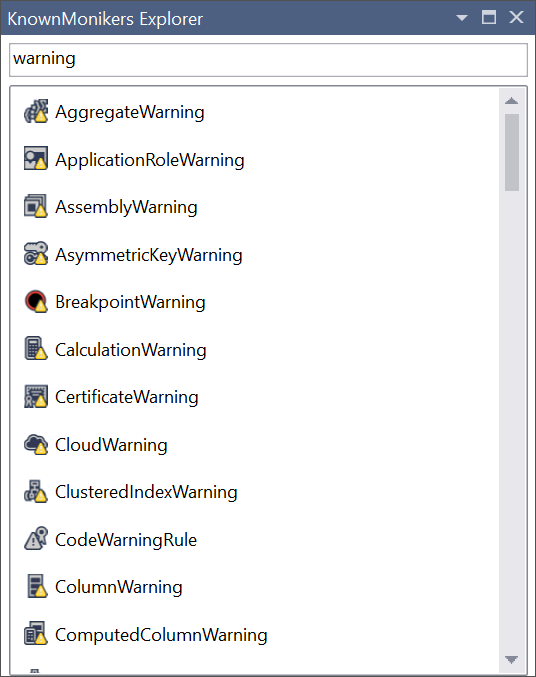
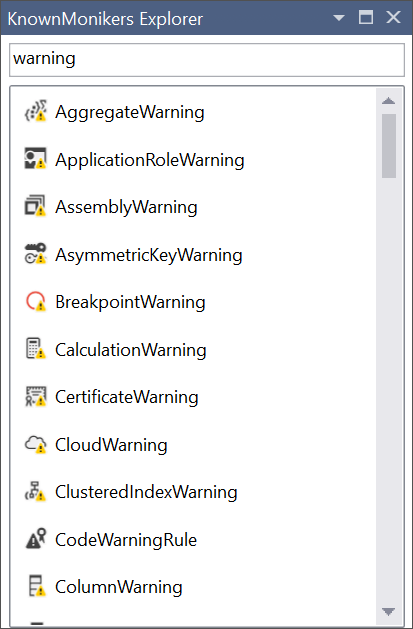
Fixed theming issue

Changed region(s): [[0.0, 0.0, 1.0, 1.0]]

diff --git a/src/ToolWindows/KnownMonikersExplorerControl.xaml b/src/ToolWindows/KnownMonikersExplorerControl.xaml
@@ -10,7 +10,7 @@
              xmlns:util="clr-namespace:Microsoft.VisualStudio.PlatformUI;assembly=Microsoft.VisualStudio.Utilities"
              xmlns:catalog="clr-namespace:Microsoft.VisualStudio.Imaging;assembly=Microsoft.VisualStudio.ImageCatalog"
              mc:Ignorable="d" 
-             d:DesignHeight="450" d:DesignWidth="400">
+             d:DesignHeight="450" d:DesignWidth="400" UseLayoutRounding="True">
     <Grid>
         <Grid.RowDefinitions>
             <RowDefinition Height="Auto" />
@@ -22,7 +22,7 @@
                  Foreground="{DynamicResource {x:Static platformUI:EnvironmentColors.BrandedUITitleBrushKey}}"
                  />
 
-        <ListView Name="list" Margin="5,0" Grid.Row="1" Background="Transparent">
+        <ListView Name="list" Margin="5,0" Grid.Row="1" Background="{DynamicResource {x:Static platformUI:EnvironmentColors.BrandedUIBackgroundBrushKey}}" theming:ImageThemingUtilities.ImageBackgroundColor="{Binding Background, RelativeSource={RelativeSource Self}, Converter={StaticResource BrushToColorConverter}}">
             <ListView.Resources>
                 <Style TargetType="GridViewColumnHeader">
                     <Setter Property="Visibility" Value="Collapsed" />

diff --git a/src/ToolWindows/ExportMonikerWindow.xaml b/src/ToolWindows/ExportMonikerWindow.xaml
@@ -30,7 +30,7 @@
                 <ColumnDefinition Width="auto" />
             </Grid.ColumnDefinitions>
             <TextBlock x:Name="textBlock" Grid.Row="0" Grid.Column="0" HorizontalAlignment="Left" FontWeight="SemiBold" Margin="0,13,15,10" Text="Width" VerticalAlignment="Top"/>
-            <TextBox x:Name="txtSize" Grid.Row="0" Grid.Column="1" HorizontalAlignment="Right" Height="23" Margin="0 10 0 0" Text="175" VerticalAlignment="Top" Width="50"/>
+            <TextBox x:Name="txtSize" Grid.Row="0" Grid.Column="1" HorizontalAlignment="Right" Height="23" Margin="0 10 0 0" Text="128" VerticalAlignment="Top" Width="50"/>
 
             <TextBlock Grid.Row="1" Grid.Column="0" HorizontalAlignment="Left" FontWeight="SemiBold" Margin="0,3,15,10" Text="Height" VerticalAlignment="Top"/>
             <TextBox Grid.Row="1" Grid.Column="1" HorizontalAlignment="Right" Height="23" Text="{Binding ElementName=txtSize, Path=Text}" VerticalAlignment="Top" Width="50" IsEnabled="False"/>

diff --git a/src/ToolWindows/KnownMonikersExplorerWindow.cs b/src/ToolWindows/KnownMonikersExplorerWindow.cs
@@ -1,6 +1,7 @@
 using System;
 using System.Runtime.InteropServices;
 using EnvDTE;
+using Microsoft.VisualStudio.Imaging;
 using Microsoft.VisualStudio.Shell;
 using Microsoft.VisualStudio.Shell.Interop;
 
@@ -9,7 +10,7 @@ namespace KnownMonikersExplorer.ToolWindows
     [Guid(WindowGuidString)]
     public class KnownMonikersExplorerWindow : ToolWindowPane
     {
-        public const string WindowGuidString = "5a3bfbbe-afe7-46da-a7fa-b6313fa03acc";
+        public const string WindowGuidString = "cfff3162-9c8d-4244-b0a7-e3b39a968b24";
         public const string Title = "KnownMonikers Explorer";
 
         public KnownMonikersExplorerWindow()
@@ -20,6 +21,7 @@ namespace KnownMonikersExplorer.ToolWindows
             : base()
         {
             Caption = Title;
+            BitmapImageMoniker = KnownMonikers.Image;
 
             var elm = new KnownMonikersExplorerControl(state);
             Content = elm;

diff --git a/src/KnownMonikersPackage.cs b/src/KnownMonikersPackage.cs
@@ -13,7 +13,7 @@ namespace KnownMonikersExplorer
     [PackageRegistration(UseManagedResourcesOnly = true, AllowsBackgroundLoading = true)]
     [InstalledProductRegistration("#110", "#112", Vsix.Version, IconResourceID = 400)]
     [Guid(PackageGuids.guidKnownMonikersPackageString)]
-    [ProvideToolWindow(typeof(KnownMonikersExplorerWindow), Style = VsDockStyle.Tabbed, Window = KnownMonikersExplorerWindow.WindowGuidString, Orientation = ToolWindowOrientation.Left)]
+    [ProvideToolWindow(typeof(KnownMonikersExplorerWindow), Style = VsDockStyle.Tabbed, DockedWidth = 300, Window = "DocumentWell", Orientation = ToolWindowOrientation.Left)]
     [ProvideMenuResource("Menus.ctmenu", 1)]
     public sealed class KnownMonikersPackage : AsyncPackage
     {

diff --git a/src/Commands/ShowToolWindow.cs b/src/Commands/ShowToolWindow.cs
@@ -1,11 +1,7 @@
 using System;
 using System.ComponentModel.Design;
-using System.Globalization;
-using System.Threading;
-using System.Threading.Tasks;
 using KnownMonikersExplorer.ToolWindows;
 using Microsoft.VisualStudio.Shell;
-using Microsoft.VisualStudio.Shell.Interop;
 using Task = System.Threading.Tasks.Task;
 
 namespace KnownMonikersExplorer

diff --git a/README.md b/README.md
@@ -4,7 +4,9 @@
 
 **Requires Visual Studio 2017.6 or newer**
 
-Provides a tool window for Visual Studio extension authors that lets you easily browse all the image monikers in the **KnownMonikers** collection.
+Provides a tool window for Visual Studio extension authors that lets you easily browse all the image monikers in the **KnownMonikers** catalog.
+
+Open the tool window from the top menu **View -> Other Windows -> KnownMonikers Explorer**.
 
 Filter the image monikers by typing in the search box.
 
